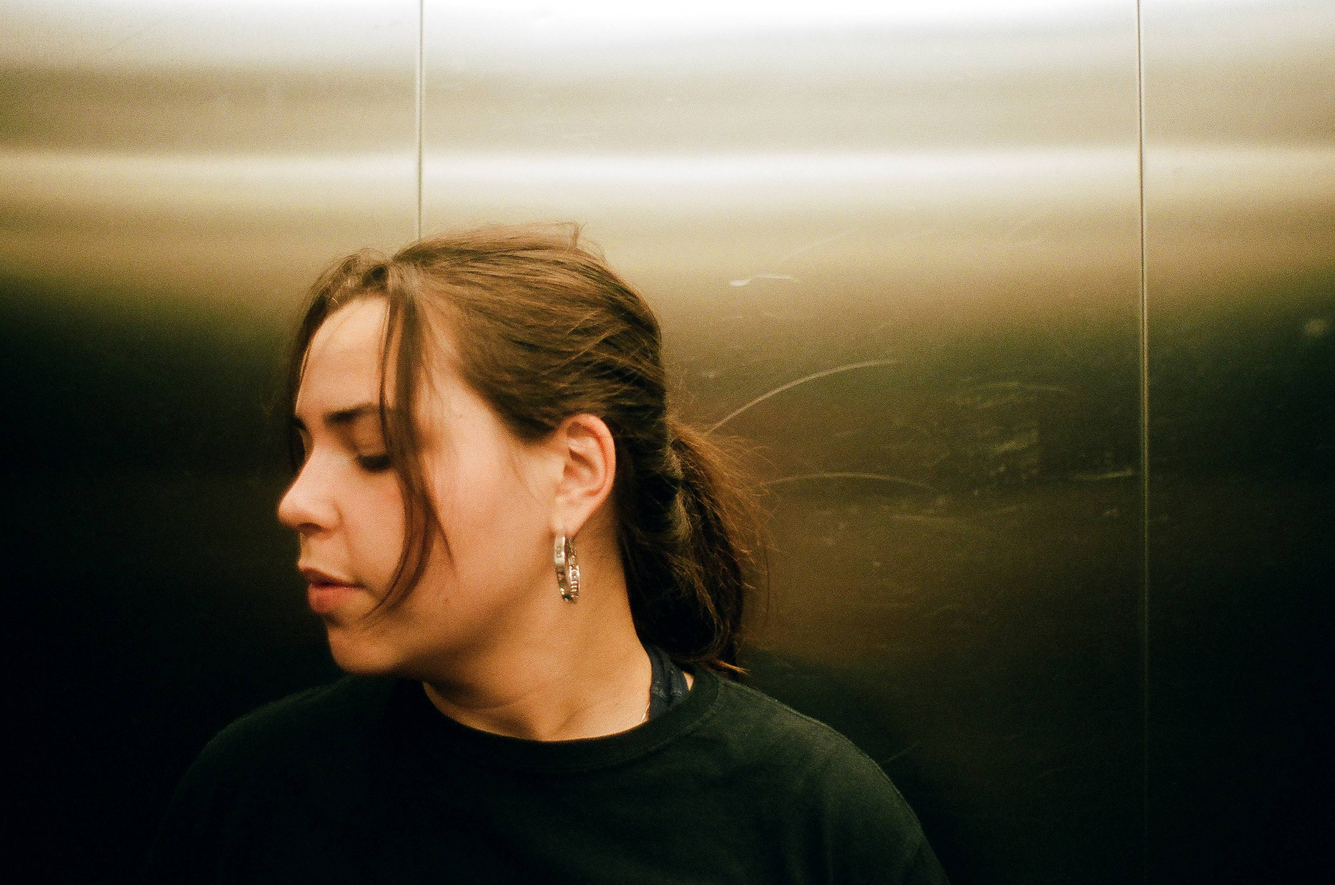
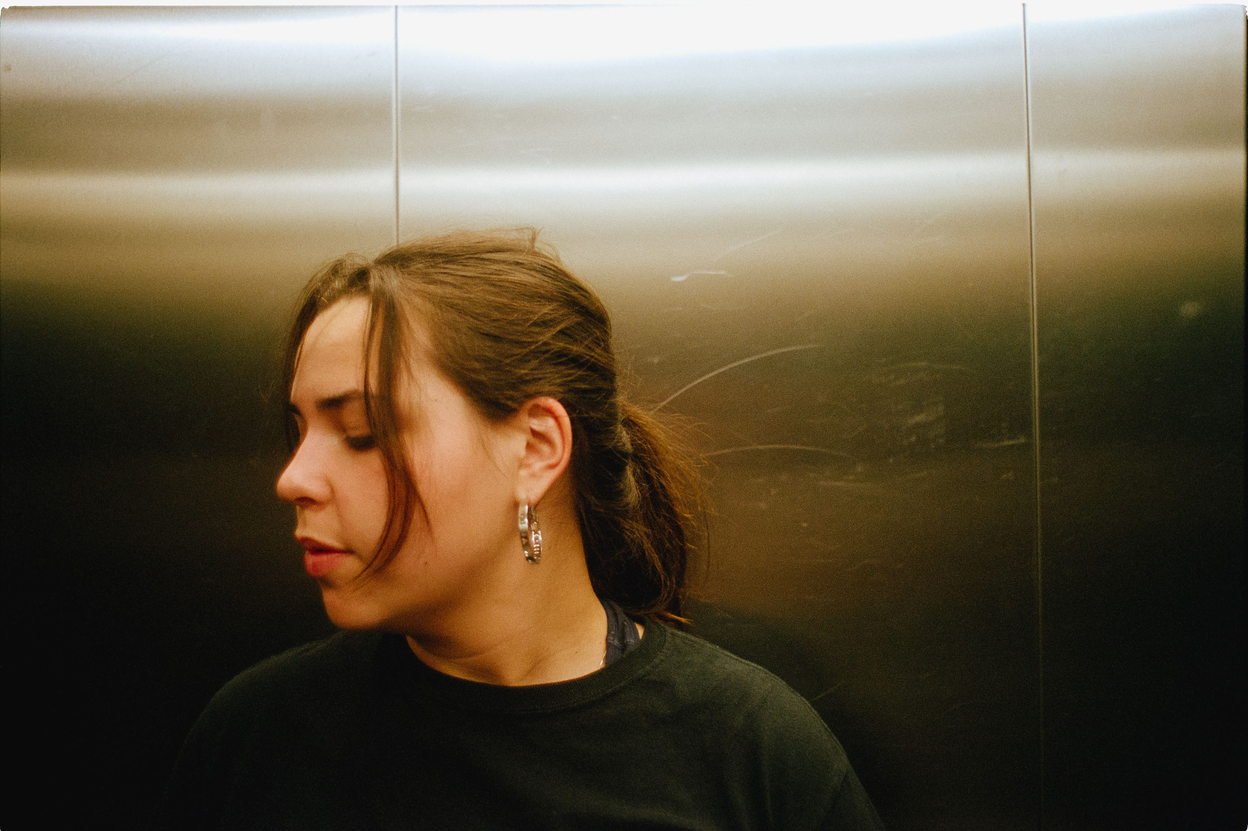
replacement

diff --git a/people.html b/people.html
@@ -25,7 +25,7 @@
 
 
         <div class="photogallery">
-            <img src="img/people (1).jpg" alt="photo" >
+            <img src="img/people.jpg" alt="photo" >
         </div>       
     
     
